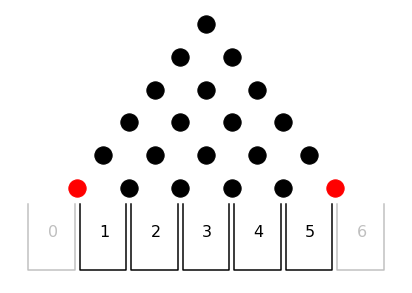
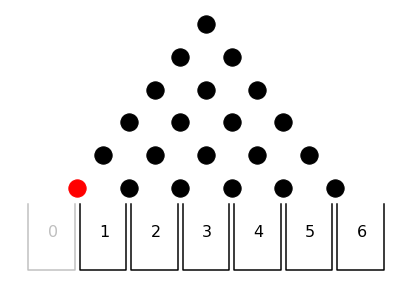
Finite Plinko post

Changed region(s): [[0.8155, 0.7065, 0.932, 0.9522], [0.7864, 0.6143, 0.8447, 0.6758]]

diff --git a/_posts/2018-01-08-finite-plinko.md b/_posts/2018-01-08-finite-plinko.md
@@ -1,0 +1,92 @@
+---
+layout: category-post
+title:  "Finite Plinko"
+date:   2018-01-08 20:01:00 -0700
+categories: general
+---
+
+Plinko and I go way back... all the way to October of 2017.  
+
+In my data science class, there was a question about a simple finite Plinko game.  Plinko, of course, is the completely skill-based game from The Price is Right where a player lets go of a disc and watches it bounce between pegs.  Players can then win prizes depending on its final location.
+
+Here's the basic image from the homework:
+
+![Basic Plinko Board]({{ "/assets/basic-plinko-pyramid.png" }}){: .center-image } 
+
+It can look a little weird at first but this pyramid of circles provides an easy way to investigate some exciting aspects of mathematics.  Each of the black circles represents a peg.  When the disc hits the peg, it can either move to the left or the right.  In this example, we assume that there is an equal chance of the disc moving in either direction.  Though it is possible to solve this problem with a different probability using different methods, it is far easier when probability of a rightward move is .5.  The buckets at the bottom represent possible end locations.  While in the show you can win cash prizes, here you only win personal satisfaction.  One thing that you can start to see is that the number of times that the puck moves to the right corresponds to the number of its end bucket.
+
+Try it out for yourself!  If you follow down from the top peg to any bucket, the number of right moves corresponds to the final bucket where it lands.  So if a path is _RLRLRL_, it ends up in bucket 3 as there were 3 right moves.  This also holds true no matter the order of the moves.  _RRRLLL_, _LLLRRR_, and _LRLRLRLR_ all end up in bucket 3.
+
+We can even validate this with a simulation:
+
+```python
+def plinko_trial(num_rows=6, p=0.5):
+    bucket = 0 
+    for ii in range(num_rows):
+        bucket += np.random.choice([0,1], p=[1-p, p])
+    return bucket
+
+def easy_plinko(num_samples=int(1e2), rows=6, p=0.5):
+    final_bins = [plinko_trial(rows, p) for _ in range(num_samples)]
+    return final_bins
+    
+def graph(final_bins):
+    fig, ax = plt.subplots(nrows=1, ncols=1, figsize=(12,6))
+    ax.hist(final_bins, bins=[0, 1, 2, 3, 4, 5, 6, 7], normed=True)
+
+graph(easy_plinko(10000))
+```
+
+![Plinko Board with Boundaries]({{ "/assets/plinko-sim.png" }}){: .center-image } 
+
+Now this looks exactly like the distribution for a binomial random variable.  This makes sense, too.  Each time the disc reaches a peg can be thought of as an individual trial.  For each trial, there is the probability $$p=.5$$ that the disc moves to the right.  The final location is the sum of successful moves to the right.  Now this sounds exactly like a Binomial random variable.  Every successful trial represents a move to the right.  Every failure is a move to the left.  The number of trials is simply the number of peg rows that the disc encounters.  Therefore, the given image can be represented as samples from the random variable: $$X \text{ ~ } Bin(6, 0.5)$$
+
+From here, the problem only gets more interesting.  Solving for a single pyramid is fun and all but it lacks something that the actual plinko board has: boundaries.
+
+Boundaries provide the exciting (and confusing) part of the problem.  The idea of a boundary can be seen below:
+
+![Plinko Board with Boundaries]({{ "/assets/bounded-plinko-pyramid.png" }}){: .center-image } 
+
+Here, the board has walls at one side which is represented by the red dot.  You can think of the boundary being at the ‘.5’ mark.  When the wall only separates off a single bucket, it is easy to see what happens.  Every disc that was going to land in bucket 0 ends up in bucket 1.  Now this is the important thing to recognize about a disc's interaction with a wall:  _The end location of a blocked disc is the reflection of the original destination about the bounding wall._
+
+Before we start to unpack that claim, let's take a detour to talk about another game: pool.
+
+In pool, whenever you are trying to line up a shot that rebounds off a wall you use the Law of Reflection.   This law states that the angle of reflection is equal to the angle of incidence.  Therefore, you can line up your shot by imagining that there is another pool table on the other side of the wall.  
+
+With this in mind you can imagine that instead of the disc being rebounded by the wall, it simply continues onto another Plinko board mirrored on the other side.  In this mirrored Plinko world, all directions are switched.  So a left in our world becomes a right in this one.
+
+![Bounded Plinko Board with Mirror]({{ "/assets/bounded-plinko-mirror.png" }}){: .center-image } 
+
+Since it is impossible for the puck to ever end up in bucket 0, you can think of it as ending in _another_ bucket 1.  This is the simplest possible example and it only gets more exciting from here. 
+
+The idea of a mirrored Plinko world becomes far more useful when multiple buckets are cut off by a boundary.  While only one path is impacted in this instance, it is possible that there could be multiple buckets cut off on a side.  Here is an example with two buckets cut off by a wall at the ‘1.5’ mark:
+
+![Plinko Board Bounded on Two Sides]({{ "/assets/double-plinko-bound.png" }}){: .center-image } 
+
+Applying the same idea of a mirror board, we can see where the disc will end.
+
+![Mirrored Plinko Board Bounded on Two Sides]({{ "/assets/double-plinko-mirror.png" }}){: .center-image } 
+
+Remember, I previously claimed that the end location of a blocked disc is the reflection of the original destination about the bounding wall.  By applying the idea of a mirror board, we can easily see how this is the case.  You can even try and prove it to yourself by following along various paths just like we did earlier.  Every path that would have ended in bucket 0 ends in bucket 3.  Every path that would have ended in bucket 1 ends in bucket 2.  This is a very cool and useful trick but it does have its limitations.  It only works when it is equally likely that the disc travels in either direction.  The moment that the probability of a move to the right is no longer .5, this mirror trick no longer works.
+
+Using this information, we can start to solve for the actual board that is used on The Price is Right.
+
+![The Real Thing]({{ "/assets/real-plinko.jpg" }}){: .center-image } 
+
+There's a problem here that we have yet to discuss.  This board isn't an easy to use triangle.  It's a rectangle with many different start locations.  Luckily for us, we've spent way too much time thinking about this game and have a solution.  Each of the top pegs can be thought of as a separate basic Plinko problem.  What makes them different is the boundary applied to each one.
+
+After way too much time, I managed to create an image representing the smaller Plinko problem that begins at the left-most peg:
+
+![Graphic Design is My Passion]({{ "/assets/true-bounded.png" }}){: .center-image } 
+
+I'd mock this up for the other problems but it would take far too long.  It also wouldn't be as useful as one would think.  
+
+This strategy presents a problem where you must translate the individual Plinko's buckets to the real ones.  The _true_ board has different buckets than any individual problem.  You can see this while trying to determine what the left-most bucket should be labeled.  In the eyes of the subproblem, it is bucket 6.  However, in the eyes of the overall problem, it is bucket 0.  For the subproblem that begins on the next peg to the right, that same left-most bucket could be considered either bucket 5 or bucket 0.
+
+Managing this difference becomes incredibly annoying to both manimpulate and describe.  Luckly, there is a better way of solving these problems.  Instead of treating this complex problem as the sum of the realizations from 8 bounded random variables, we can instead think of it as a single markov chain.
+
+That's where it really gets exciting.
+
+<script type="text/javascript" async
+  src="https://cdnjs.cloudflare.com/ajax/libs/mathjax/2.7.2/MathJax.js?config=TeX-MML-AM_CHTML">
+</script>
